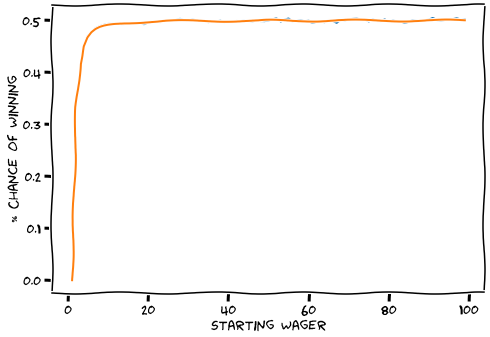
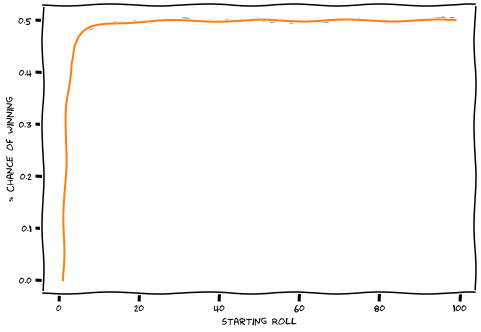
Death rolling edits

diff --git a/_posts/2021-12-14-DEATH-ROLLING.md b/_posts/2021-12-14-DEATH-ROLLING.md
@@ -48,7 +48,7 @@ Bob rolls 3 [1-12]<br/>
 Alice rolls 1 [1-3]<br/>
 Alice transfers 100 gold to Bob.<br/>
 
-Now as a player trying to maximize their returns should you go first or second? Bet large or small? Naturally I wanted to find out.
+Now, as a player trying to maximize your returns should you go first or second? Bet large or small? Naturally, I wanted to find out.
 
 # Game
 
@@ -210,13 +210,13 @@ width: 200px;
   <div id="money">Your cash: 10000$</div>
   <div id="tool_tip">
     <div class="help-tip">
-    <p>Death roll against a computer, alternating who goes first. Skip ahead to find out how to size your wagers. Keep in mind you can only wager whole integer amounts.</p>
+    <p>Death roll against a computer, alternating who goes first. Skip ahead to find out how to size your rolls. Keep in mind you can only roll whole integer amounts.</p>
     </div>
   </div>
 
 </div>
 
-<label for="wager">Desired Wager</label>
+<label for="wager">Desired Starting Roll</label>
 <input id='wager' type="number" step="1" placeholder="10"/>
 
 <div id="log" style="overflow-y: scroll; height:400px;"></div>
@@ -235,42 +235,42 @@ document.getElementById('wager').value = 1000;
 
 # Simulation
 
-My initial assumption was for very small bets the second roller would have a large advantage and the first roller would have a minimal $$ 1/2\% $$ advantage for larger rolls. The intuition behind that is small rolls, for example starting at $$ 2 $$, there is a large probability that the initial roll will be a $$ 1 $$ resulting in an instantaneous victory for the 2nd player. While for larger rolls there is a very small chance you roll a $$ 1 $$, but you are almost guaranteed the 2nd player will have to roll between 1 and a smaller number, giving them a larger chance of rolling a $$ 1 $$.
+My initial assumption was for very small bets the second roller would have a large advantage and the first roller would have a minimal $$ 1/2\% $$ advantage for larger rolls. The intuition behind this assumption is the following: for small starting rolls, for example starting at $$ 2 $$, there is a large probability that the initial roll will be a $$ 1 $$ resulting in an instantaneous victory for the 2nd player. While for larger starting rolls there is a very small chance you roll a $$ 1 $$, but it's almost guaranteed the 2nd player will have to roll between 1 and a smaller number giving them a larger chance of rolling a $$ 1 $$.
 
 With a bit of [code](https://colab.research.google.com/drive/1v1zcegJFMhxCg7KoFOlXWLKd7g8oNpRh#scrollTo=bdLKX82Yutjp) we can simulate thousands of death rolls and see our winrate.
 
 <figure class="image">
-  <img src="/img/posts/wr-vs-wager.PNG" alt="Wager vs win rate for death rolling">
-  <figcaption><b>Fig 1</b>:Depicting our winrate, with us rolling first, across a variety of starting rolls.</figcaption>
+  <img src="/img/posts/wr-vs-wager.PNG" alt="Starting roll vs win rate for death rolling">
+  <figcaption><b>Fig 1</b>: Depicting our winrate, with us rolling first, across a variety of starting rolls.</figcaption>
 </figure>
 
-We can also simulate the winrate of our opponent
+We can also simulate the winrate of our opponent:
 
-![Wager vs win rate for death rolling](/img/posts/wr-vs-wager-2.PNG)
+![Starting roll vs win rate for death rolling](/img/posts/wr-vs-wager-2.PNG)
 
-Our winrate for very small wagers $$ (2,3,4,5) $$ is quite low, but very quickly approaches a near $$ 50\% $$ winrate.
+Our winrate for very small starting rolls $$ (2,3,4,5) $$ is quite low, but nevertheless very quickly approaches a near $$ 50\% $$ winrate as the initial roll increases.
 
-If we perform $$ 10,000,000 $$ simulations with a starting roll of $$ 10,000 $$ the winrate is essentially $$ 50\% $$.
+For example, if we perform $$ 10,000,000 $$ simulations with a starting roll of $$ 10,000 $$ the winrate is essentially $$ 50\% $$.
 
-![Wager vs win rate for death rolling](/img/posts/large_sample_50.PNG)
+![Roll vs win rate for death rolling](/img/posts/large_sample_50.PNG)
 
-It seems for small rolls my initial assumption was correct,however, for larger initial rolls neither side has an advantage.
+It seems for small rolls my initial assumption was correct; however, for larger initial rolls neither side has an advantage.
 
 # Analysis
 
-Now we'll try and be more exact about our chances of winning.
+Now, we'll try to calculate our exact chances of winning.
 
 Let
 
 $$ g(n) = \text{expected chance of winning over losing}, -1 <= g(n) <= 1 $$.
 
-So if $$ g(n) = 1 $$ we would expect to always win, while $$ g(n) = -1 $$ would mean we always lose and $$ g(n) = 0 $$ means we lose as often as we win.
+So if $$ g(n) = 1 $$ we would expect to always win, while $$ g(n) = -1 $$ would mean we always expect to lose and $$ g(n) = 0 $$ means we expect to lose as often as we win.
 
-Next we'll draw a probability tree for a game with a starting roll of $$ 3 $$.
+Next, we'll draw a probability tree for a game with a starting roll of $$ 3 $$.
 
 ![probability tree for death rolling starting at 3](/img/posts/starting_at_3.PNG)
 
-On the first roll we instantly lose $$ \frac{1}{3}rd $$ of the time, roll $$ 2 $$ a $$ \frac{1}{3}rd $$ of the time and roll $$ 3 $$ a $$ \frac{1}{3}rd $$ of the time. In the cases we roll a $$ 2 $$ or $$ 3 $$ we can draw out what the opponents probability's are.
+On the first roll we instantly lose $$ \frac{1}{3}rd $$ of the time, for roll $$ 2 $$ a $$ \frac{1}{3}rd $$ of the time and for roll $$ 3 $$ a $$ \frac{1}{3}rd $$ of the time. In the cases we roll a $$ 2 $$ or $$ 3 $$ we can draw out what the opponent's probabilities are.
 
 ![probability tree for death rolling starting at 3](/img/posts/starting_at_3_recursive.PNG)
 
@@ -280,7 +280,7 @@ Expected value is typically calculated as
 
 $$ \text{EV} = \sum{(P(X_i) \times X_i)} $$
 
-Where $$ P(X_i) $$ is the probability that outcome $$ X_i $$ occurs. In our case we have 3 outcomes, either we roll a $$ \{1,2,3\} $$, each having an equal probability $$ P(1) = P(2) = P(3) = \frac{1}{3} $$.
+Where $$ P(X_i) $$ is the probability that outcome $$ X_i $$ occurs. In our case we have 3 outcomes: either we roll a $$ \{1,2,3\} $$, each having an equal probability $$ P(1) = P(2) = P(3) = \frac{1}{3} $$.
 
 Therefore<sup id="a1">[1](#f1)</sup>
 
@@ -291,7 +291,7 @@ g(3) &= \frac{1}{3} \times (-1) - \frac{1}{3} \times g(2) - \frac{1}{3} \times g
 \end{align}
 $$
 
-Now we need to figure out what $$ g(2) $$ is equal to.
+Now, we need to figure out what $$ g(2) $$ is equal to.
 
 We'll start off again by drawing its probability tree
 
@@ -322,7 +322,7 @@ $$\sum_{n=1}^{\infty}(ar^k) = \frac{ar}{1-r}, \text{iff } \vert r \vert < 1$$.
 
 $$g(2) = \frac{1 \times \frac{-1}{2}}{1 - \frac{-1}{2}} = -\frac{1}{3}$$
 
-Therefore we can expect to lose $$ 33.\bar{3}\% $$ more games than we win. Another way to write the equation is $$ g(n) = \text{win %} - \text{lose %} $$. Additionally we know $$ \text{win %} + \text{lose %} = 1 $$. We can express our winrate directly.
+Therefore we can expect to lose $$ 33.\bar{3}\% $$ more games than we win. Another way to write the equation is $$ g(n) = \text{win %} - \text{lose %} $$. Additionally we know $$ \text{win %} + \text{lose %} = 1 $$. Using these two equations we can express our winrate directly.
 
 $$
 \begin{align}
@@ -338,9 +338,9 @@ Using our previously calculated results
 
 $$ g(2) = - \frac{1}{3} \longrightarrow W = \frac{g(2) + 1}{2} = \frac{ -\frac{1}{3} + 1}{2} = \frac{1}{3}, L = \frac{2}{3} $$
 
-Hence, we can expect to win once every $$ 3 $$ wagers assuming we roll first and begin the rolls at $$ 2 $$.
+Hence, we can expect to win once every $$ 3 $$ games assuming we roll first and begin the rolls at $$ 2 $$.
 
-Now that we've calculated $$ g(2) $$ let's go back to $$ g(3) $$. From above we have
+Now that we've calculated $$ g(2), $$ let's go back to $$ g(3) $$. From above we have
 
 $$
 \begin{align}
@@ -370,11 +370,11 @@ g(6) &= -\frac{1}{21} \\
 \end{align}
 $$
 
-While these equations are helpful there doesn't seem to be any obvious pattern that we could exploit, so instead we'll obtain a explicit formula for $$ g(n) $$ through solving its recurrence equation.
+While these equations are helpful there doesn't seem to be any obvious pattern that we can exploit, so instead we'll obtain a explicit formula for $$ g(n) $$ through solving its recurrence equation.
 
 # Explicit Formula
 
-First will define $$ g(n) $$ recursively as
+First, we'll define $$ g(n) $$ recursively as
 
 ![probability tree for death rolling starting at n](/img/posts/starting_at_n.PNG)
 
@@ -385,7 +385,7 @@ g(n) &= - \frac{1}{n} - \sum_{i = 2}^{n}(\frac{1}{n}g(i)) \\
 \end{align}
 $$
 
-Next we'll define $$s(n) = \sum_{i=2}^{n}{g(i)}$$ then we have that $$ g(n) = - \frac{1}{n}(1 + s(n)) $$. We can also see that $$ g(n) = s(n) - s(n - 1) $$ <sup id="a2"><a href="#f2">[2]</a></sup>. Therefore we can plug that into the above recursive formula we have for $$ g(n) $$.
+Next, we'll define $$s(n) = \sum_{i=2}^{n}{g(i)}$$ then we have that $$ g(n) = - \frac{1}{n}(1 + s(n)) $$. We can also see that $$ g(n) = s(n) - s(n - 1) $$ <sup id="a2"><a href="#f2">[2]</a></sup>. Therefore we can plug that into the above recursive formula we have for $$ g(n) $$.
 
 $$
 \begin{align}
@@ -396,7 +396,7 @@ s(n) - s(n-1) &= -\frac{1}{n}(1 + s(n)) \\
 \end{align}
 $$
 
-Let's guess that $$ s(n) = -\frac{n-1}{n+1} $$ solves the above equation as well as satisfying $$ s(2) = g(2) = -\frac{1}{3} $$<sup id="a3"><a href="#f3">[3]</a></sup>. Thus
+Let's guess that $$ s(n) = -\frac{n-1}{n+1} $$ solves the above equation as well as satisfies $$ s(2) = g(2) = -\frac{1}{3} $$<sup id="a3"><a href="#f3">[3]</a></sup>. Thus,
 
 $$
 \begin{align}
@@ -420,22 +420,22 @@ $$
 
 $$\lim_{n\to\infty} W(n) = \frac{1}{2} - \frac{1}{\infty} = \frac{1}{2}$$
 
-Which if we graph out looks very similar to our simulation results
+which if we graph out looks very similar to our simulation results.
 
 <figure class="image">
   <img src="/img/posts/final_wr.PNG" alt="Simulated results vs expected results for death rolling">
-  <figcaption><b>Fig 2</b>:Depicting the simulated and expected winrates, one can very faintly see a small discrepancy around wagers of 60. Overall, however, the expected and simulated results match up very well.</figcaption>
+  <figcaption><b>Fig 2</b>: Depicting the simulated and expected winrates, one can very faintly see a small discrepancy around starting rolls of 60. Overall, however, the expected and simulated results match up very well.</figcaption>
 </figure>
 
-In the end we see that regardless of the starting wager size the second player always has some advantage, which for sufficiently large wagers has negligible impact.
+In the end we see that regardless of the starting roll the second player always has some advantage, which for sufficiently large starting rolls has negligible impact.
 
-Death rolling, while funner than flipping a coin essentially can be simplified to exactly that, a $$ 50/50 $$ chance of winning or losing.
+Death rolling, while more fun than flipping a coin, can essentially be simplified to exactly that, a $$ 50/50 $$ chance of winning or losing.
 
 # Notes
 
 Lots of the equations/math was verified using [this Desmos calculator](https://www.desmos.com/calculator/nctehklw29).
 
-<b id="f1">[1]</b> In the case of rolling a $$ 1 $$ we instantly lose so we assign that a $$ -1 $$ value, and we minus the recursive cases since its returning the probability the opponent wins when starting to roll from $$ 2,3 $$. [↩](#a1)
+<b id="f1">[1]</b> In the case of rolling a $$ 1 $$ we instantly lose, so we assign that a $$ -1 $$ value and we minus the recursive cases since it's returning the probability the opponent wins when starting to roll from $$ 2,3 $$. [↩](#a1)
 
 <b id="f2">[2]</b>
 
